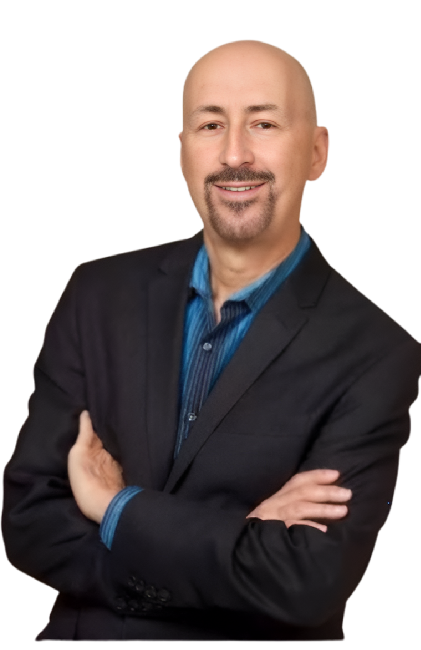
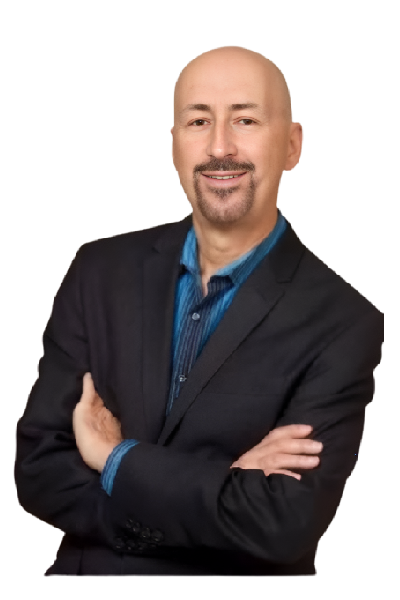
fixed henry image

diff --git a/public/index.html b/public/index.html
@@ -1,7 +1,7 @@
 <!DOCTYPE html>
 <html lang="en">
   <head>
-	<meta name="generator" content="Hugo 0.145.0"><script src="/livereload.js?mindelay=10&amp;v=2&amp;port=1313&amp;path=livereload" data-no-instant defer></script>
+	<meta name="generator" content="Hugo 0.127.0"><script src="/livereload.js?mindelay=10&amp;v=2&amp;port=1313&amp;path=livereload" data-no-instant defer></script>
   <meta charset="utf-8" />
   <meta http-equiv="x-ua-compatible" content="ie=edge" />
   <title>ABA Therapy for Autism | Parent Support &amp; Counseling</title>
@@ -307,6 +307,8 @@ j=d.createElement(s),dl=l!='dataLayer'?'&l='+l:'';j.async=true;j.src=
                         
                           <li><a href="/clinical" aria-label="Clinical Team">Clinical Team</a></li>
                         
+                          <li><a href="/henry-d-schlinger-jr-phd-bcba-d" aria-label="Dr. Henry Schlinger">Dr. Henry Schlinger</a></li>
+                        
                       </ul>
                     
                   </li>
@@ -466,6 +468,8 @@ j=d.createElement(s),dl=l!='dataLayer'?'&l='+l:'';j.async=true;j.src=
                           <li><a href="/leadership" aria-label="Leadership">Leadership</a></li>
                         
                           <li><a href="/clinical" aria-label="Clinical Team">Clinical Team</a></li>
+                        
+                          <li><a href="/henry-d-schlinger-jr-phd-bcba-d" aria-label="Dr. Henry Schlinger">Dr. Henry Schlinger</a></li>
                         
                       </ul>
                     

diff --git a/public/services/aba-therapy/index.html b/public/services/aba-therapy/index.html
@@ -306,6 +306,8 @@ j=d.createElement(s),dl=l!='dataLayer'?'&l='+l:'';j.async=true;j.src=
                         
                           <li><a href="/clinical" aria-label="Clinical Team">Clinical Team</a></li>
                         
+                          <li><a href="/henry-d-schlinger-jr-phd-bcba-d" aria-label="Dr. Henry Schlinger">Dr. Henry Schlinger</a></li>
+                        
                       </ul>
                     
                   </li>
@@ -465,6 +467,8 @@ j=d.createElement(s),dl=l!='dataLayer'?'&l='+l:'';j.async=true;j.src=
                           <li><a href="/leadership" aria-label="Leadership">Leadership</a></li>
                         
                           <li><a href="/clinical" aria-label="Clinical Team">Clinical Team</a></li>
+                        
+                          <li><a href="/henry-d-schlinger-jr-phd-bcba-d" aria-label="Dr. Henry Schlinger">Dr. Henry Schlinger</a></li>
                         
                       </ul>
                     
